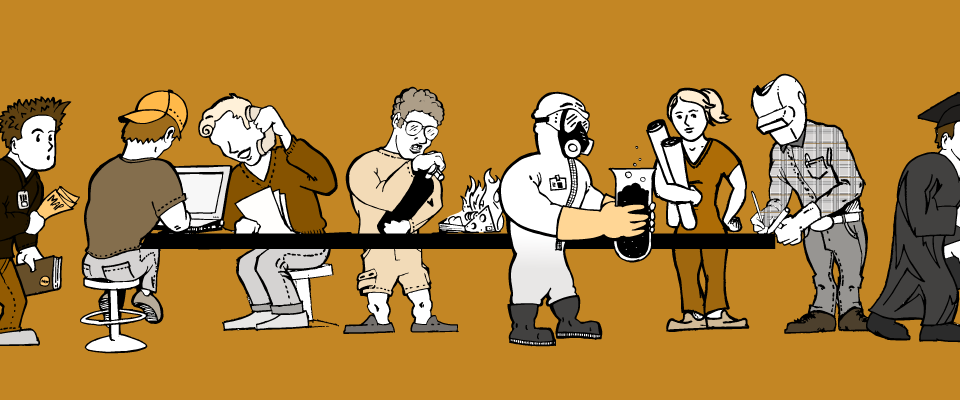
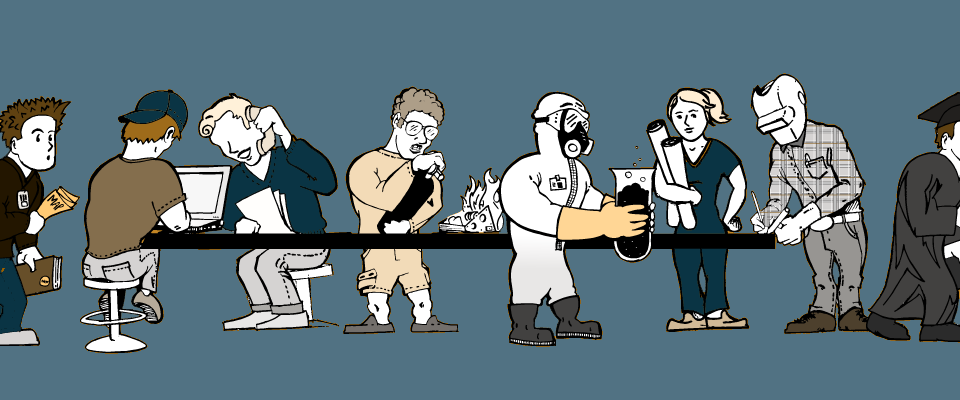
adding new hero unit on homepage

diff --git a/website/templates/homepage.html b/website/templates/homepage.html
@@ -15,8 +15,8 @@
     }
     
     .home_feature_slider {
-        background: url('/static/images/hero.png');
-        height: 300px;
+        background: url('/static/images/home-banner.png');
+        height: 375px;
     }
     
     .projects_row {
@@ -47,7 +47,7 @@
 {% block hero %}
     <div class="home_feature_slider">        
         <div class="row-fluid">
-            <div id="hero-content" class="span8 offset2">
+            <div id="hero-content" class="span6 offset3">
                 
                 <h1>You Have a Lot to Give</h1>
                 
